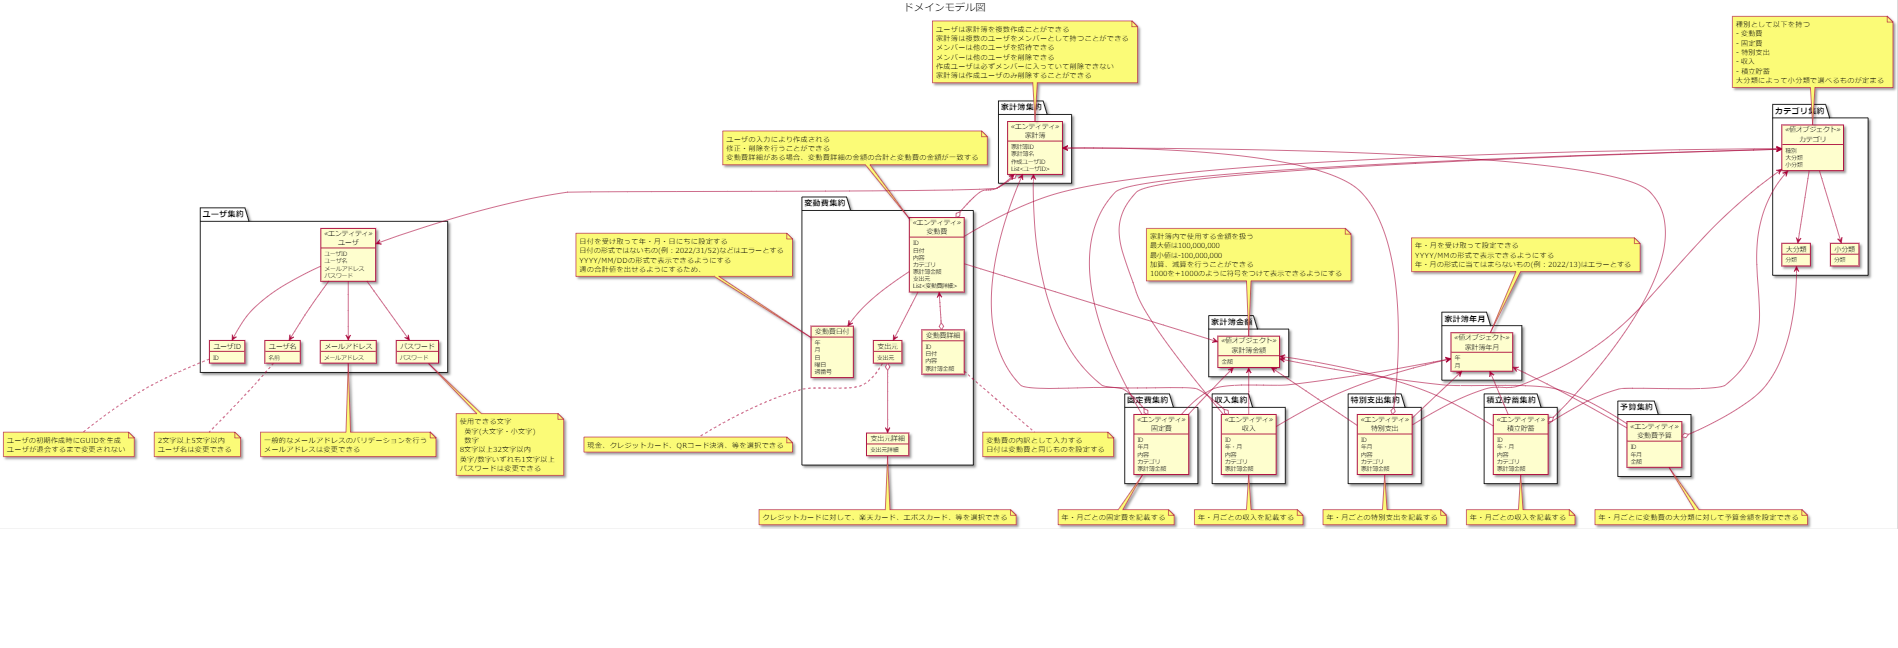
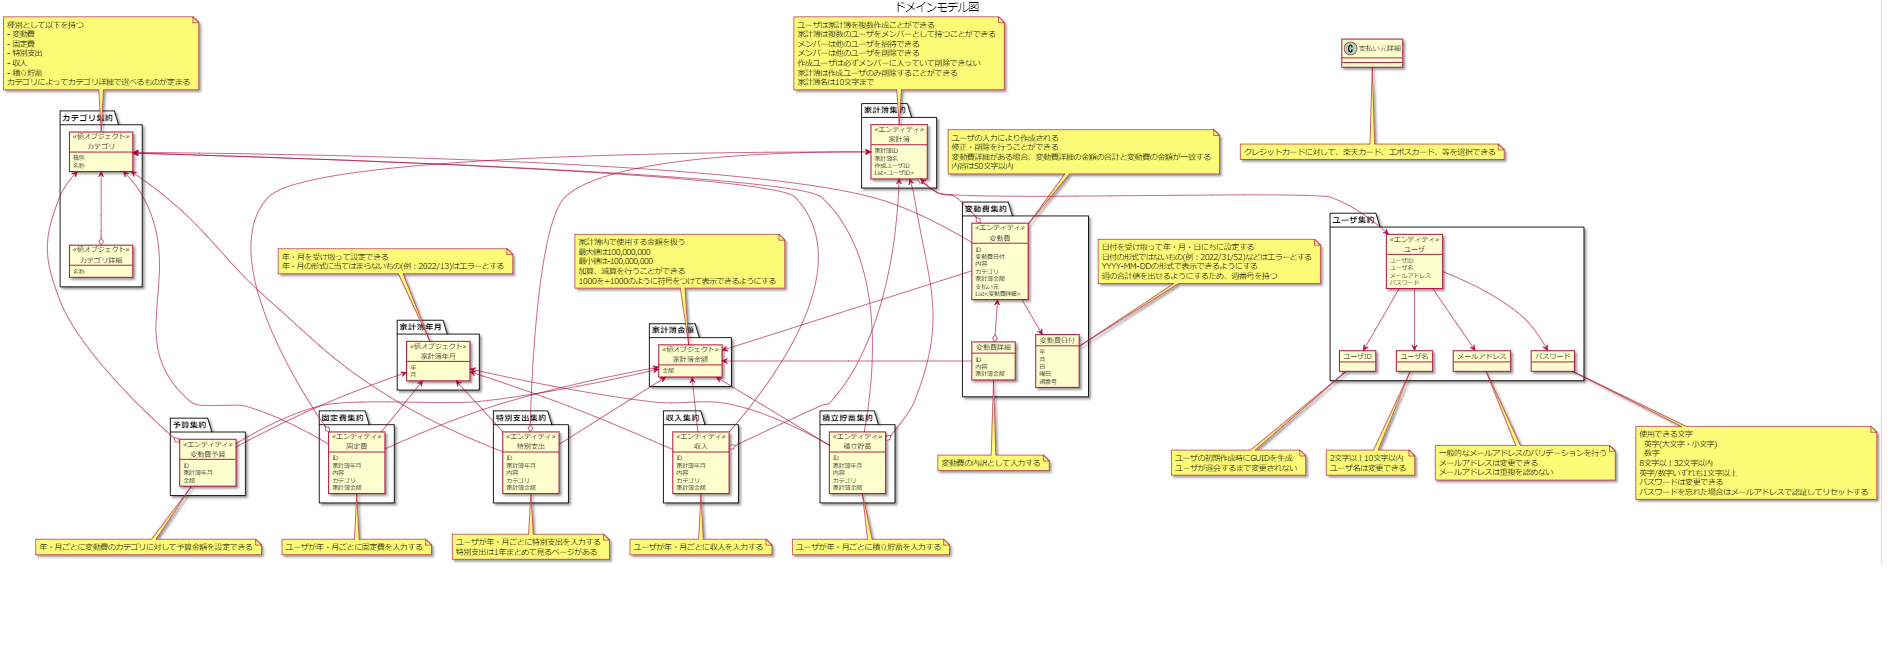
ドメインモデルを修正

Changed region(s): [[0.0, 0.0, 1.0, 0.8642], [0.9326, 0.3086, 0.9947, 0.4321], [0.6839, 0.0617, 0.746, 0.1235]]

diff --git a/README.md b/README.md
@@ -6,8 +6,10 @@
 - [要求モデル](01_requirement/02_requirement-model.md)
 - [ユースケース](01_requirement/03_use-case.md)
 - [ユビキタス言語](01_requirement/04_ubiquitous-language.md)
+- [概念モデル](01_requirement/05_conceptual_model.png)
 
 ## 設計
+- [ドメインモデル図](02_design/01_domain_model_design/domain_model_design.png)
 
 ## 外部設計
 - 概念モデル
